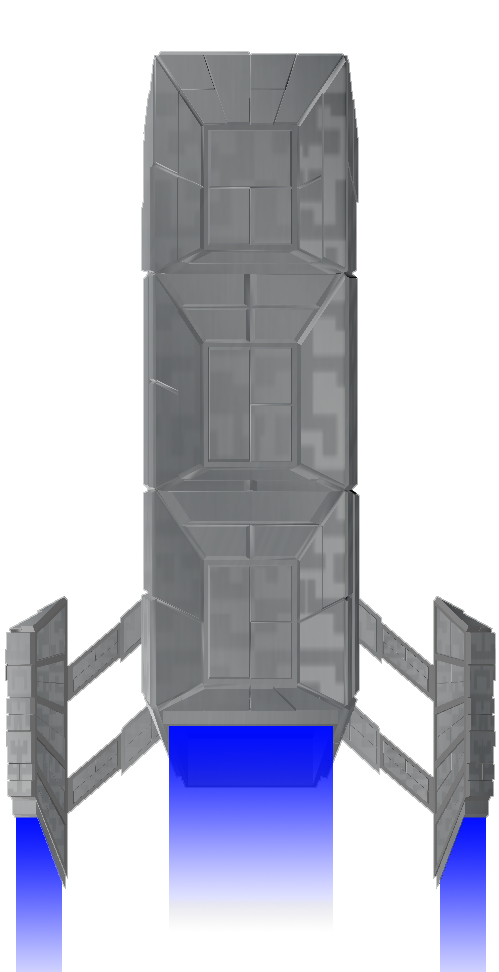
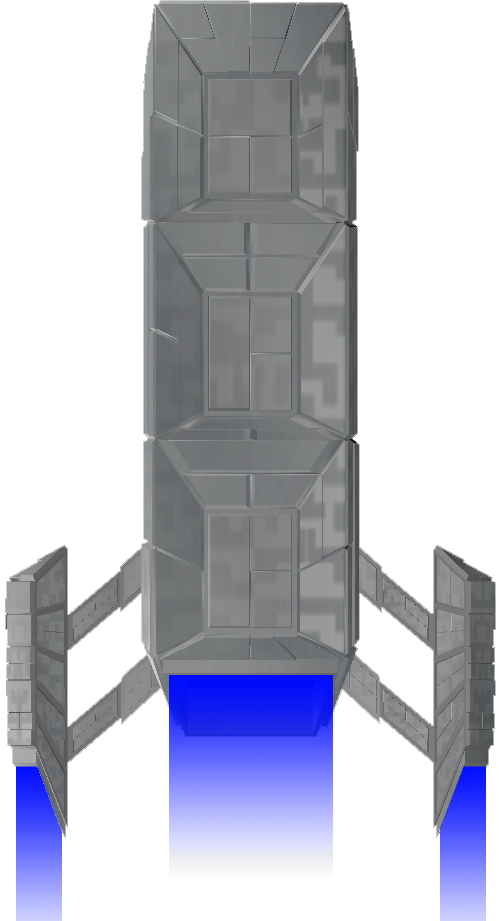
fixed player sprites, partialy added onscreen timer

diff --git a/UIelements.cpp b/UIelements.cpp
@@ -1,5 +1,6 @@
 #include "UIelements.h"
 #include "Framework/AssetManager.h"
+#include "Framework/TextObject.h"
 #include <iostream>
 
 UIelements::UIelements()
@@ -7,38 +8,42 @@ UIelements::UIelements()
 	, m_player(nullptr)
 	, m_SD(nullptr)
 {
-		m_LeftPanel.setTexture(AssetManager::GetTexture("graphics/LeftPanel.png"));
-		m_LeftPanel.setPosition(0.0f, 0.0f);
-		m_LeftPanel.setScale(0.666f, 0.666f);
 
-		m_RightPanel.setTexture(AssetManager::GetTexture("graphics/RightPanel.png"));
-		m_RightPanel.setPosition(1080.0f, 0.0f);
-		m_RightPanel.scale(0.666f, 0.666f);
+	m_gametime.setFont(AssetManager::GetFont("fonts/ethnocentric.ttf"));
+	m_gametime.setPosition(400.0f, 400.0f);
 
-		m_WarningRect.setTexture(AssetManager::GetTexture("graphics/WarningRect.png"));
-		m_WarningRect.setPosition(11.0f, 420.0f);
-		m_WarningRect.setScale(0.26f, 0.4f);
+	m_LeftPanel.setTexture(AssetManager::GetTexture("graphics/LeftPanel.png"));
+	m_LeftPanel.setPosition(0.0f, 0.0f);
+	m_LeftPanel.setScale(0.666f, 0.666f);
 
-		m_healthBar.setTexture(AssetManager::GetTexture("graphics/healthBar.png"));
-		m_healthBar.setPosition(1235.0f, 710.0f);
-		m_healthBar.setScale(0.125f, m_healthBarsize);
-		m_healthBar.setOrigin(m_healthBar.getTextureRect().width / 2, m_healthBar.getTextureRect().height);
+	m_RightPanel.setTexture(AssetManager::GetTexture("graphics/RightPanel.png"));
+	m_RightPanel.setPosition(1080.0f, 0.0f);
+	m_RightPanel.scale(0.666f, 0.666f);
 
-		m_starsn.setTexture(AssetManager::GetTexture("graphics/starsa.png"));
-		m_starsn.setPosition(200.0f, 0.0f);
-		m_starsn.setScale(3.3f,3.3f);
+	m_WarningRect.setTexture(AssetManager::GetTexture("graphics/WarningRect.png"));
+	m_WarningRect.setPosition(11.0f, 420.0f);
+	m_WarningRect.setScale(0.26f, 0.4f);
 
-		m_starsn2.setTexture(AssetManager::GetTexture("graphics/starsa.png"));
-		m_starsn2.setPosition(200.0f, -720.0f);
-		m_starsn2.setScale(3.3f, 3.3f);
+	m_healthBar.setTexture(AssetManager::GetTexture("graphics/healthBar.png"));
+	m_healthBar.setPosition(1235.0f, 710.0f);
+	m_healthBar.setScale(0.125f, m_healthBarsize);
+	m_healthBar.setOrigin(m_healthBar.getTextureRect().width / 2, m_healthBar.getTextureRect().height);
 
-		m_starsf.setTexture(AssetManager::GetTexture("graphics/stars2.png"));
-		m_starsf.setPosition(200.0f, 0.0f);
-		m_starsf.setScale(1.6f, 1.6f);
+	m_starsn.setTexture(AssetManager::GetTexture("graphics/starsa.png"));
+	m_starsn.setPosition(200.0f, 0.0f);
+	m_starsn.setScale(3.3f,3.3f);
 
-		m_starsf2.setTexture(AssetManager::GetTexture("graphics/stars2.png"));
-		m_starsf2.setPosition(200.0f, -720.0f);
-		m_starsf2.setScale(1.6f, 1.6f);
+	m_starsn2.setTexture(AssetManager::GetTexture("graphics/starsa.png"));
+	m_starsn2.setPosition(200.0f, -720.0f);
+	m_starsn2.setScale(3.3f, 3.3f);
+
+	m_starsf.setTexture(AssetManager::GetTexture("graphics/stars2.png"));
+	m_starsf.setPosition(200.0f, 0.0f);
+	m_starsf.setScale(1.6f, 1.6f);
+
+	m_starsf2.setTexture(AssetManager::GetTexture("graphics/stars2.png"));
+	m_starsf2.setPosition(200.0f, -720.0f);
+	m_starsf2.setScale(1.6f, 1.6f);
 }
 
 void UIelements::Draw(sf::RenderTarget& _target)
@@ -63,13 +68,18 @@ void UIelements::SetSpaceDisplacer(SpaceDisplacer* _SD)
 	m_SD = _SD;
 }
 
+//void SetGameTimer(int _gametime)
+//{
+//	
+//}
+
 void UIelements::Update(sf::Time _frameTime)
 {
 	bool m_SDactive = m_SD->SDActive();
 	if (m_SDactive == false)
 	{
-		m_starsn.move(0.0f, 0.03f);
-		m_starsn2.move(0.0f, 0.03f);
+		m_starsn.move(0.0f, 0.02f);
+		m_starsn2.move(0.0f, 0.02f);
 		m_starsf.move(0.0f, 0.01f);
 		m_starsf2.move(0.0f, 0.01f);
 	}
@@ -100,6 +110,9 @@ void UIelements::Update(sf::Time _frameTime)
 	{
 		m_healthBar.setScale(0.125f, 3.16f);
 	}
+	float time = _frameTime.asMilliseconds() / 1000;
+	m_gametime.setString(std::to_string(time));
+
 	MovingObject::Update(_frameTime);
 }
 

diff --git a/Player.cpp b/Player.cpp
@@ -14,7 +14,7 @@ Player::Player()
 	m_text.setPosition(1100.0f, 670.0f);
 	m_sprite.setTexture(AssetManager::GetTexture("graphics/tempusBankLeft/tempus1.png"));
 	m_sprite.setOrigin(m_sprite.getTextureRect().width / 2, m_sprite.getTextureRect().height / 2);
-	m_sprite.setScale(sf::Vector2f(0.12f, 0.12f));
+	m_sprite.setScale(sf::Vector2f(0.09f, 0.09f));
 
 
 	Animation& playerBankLeft(m_animationSystem.CreateAnimation("Left"));
@@ -36,11 +36,11 @@ Player::Player()
 			playerBankRight.AddFrame((AssetManager::GetTexture("graphics/tempusBankRight/tempusR" + std::to_string(i) + ".png")));
 	}
 
-	playerBankIdle.AddFrame((AssetManager::GetTexture("graphics/tempusBankLeft/tempus1.png")));
+	playerBankIdle.AddFrame((AssetManager::GetTexture("graphics/tempusIdle.png")));
 
 	//m_animationSystem.SetSprite(m_sprite);
-	playerBankRight.SetPlayBackSpeed(40.0f);
-	playerBankLeft.SetPlayBackSpeed(40.0f);
+	playerBankRight.SetPlayBackSpeed(80.0f);
+	playerBankLeft.SetPlayBackSpeed(80.0f);
 	m_animationSystem.Play("Idle");
 }
 

diff --git a/UIelements.h b/UIelements.h
@@ -2,6 +2,7 @@
 
 #include "Framework/SpriteObject.h"
 #include "Framework/AssetManager.h"
+#include "Framework/TextObject.h"
 #include "Player.h"
 #include "MovingObject.h"
 #include "SpaceDisplacer.h"
@@ -16,6 +17,7 @@ public:
 	void Draw(sf::RenderTarget& _target);
 	void Update(sf::Time _frameTime);
 	void SetPlayer(Player* _player);
+	//void SetGameTimer(int _gametime);
 
 private:
 
@@ -27,6 +29,7 @@ private:
 	sf::Sprite m_starsn2;
 	sf::Sprite m_starsf;
 	sf::Sprite m_starsf2;
+	sf::Text m_gametime;
 	Player* m_player;
 	SpaceDisplacer* m_SD;
 	float m_healthBarsize;

diff --git a/SpaceDisplcer.cpp b/SpaceDisplcer.cpp
@@ -62,11 +62,15 @@ void SpaceDisplacer::Draw(sf::RenderTarget& _target)
 	}
 	_target.draw(m_SDcasingText);
 	_target.draw(m_SDtempText);
-	if (m_overHeating == true)
+	if (m_SDfunctional == true)
 	{
-  		_target.draw(m_lightFilter);
-		_target.draw(m_lights);
+		if (m_overHeating == true)
+		{
+			_target.draw(m_lightFilter);
+			_target.draw(m_lights);
+		}
 	}
+	
 }
 
 void SpaceDisplacer::SetSDTemp(int _newTemp)
